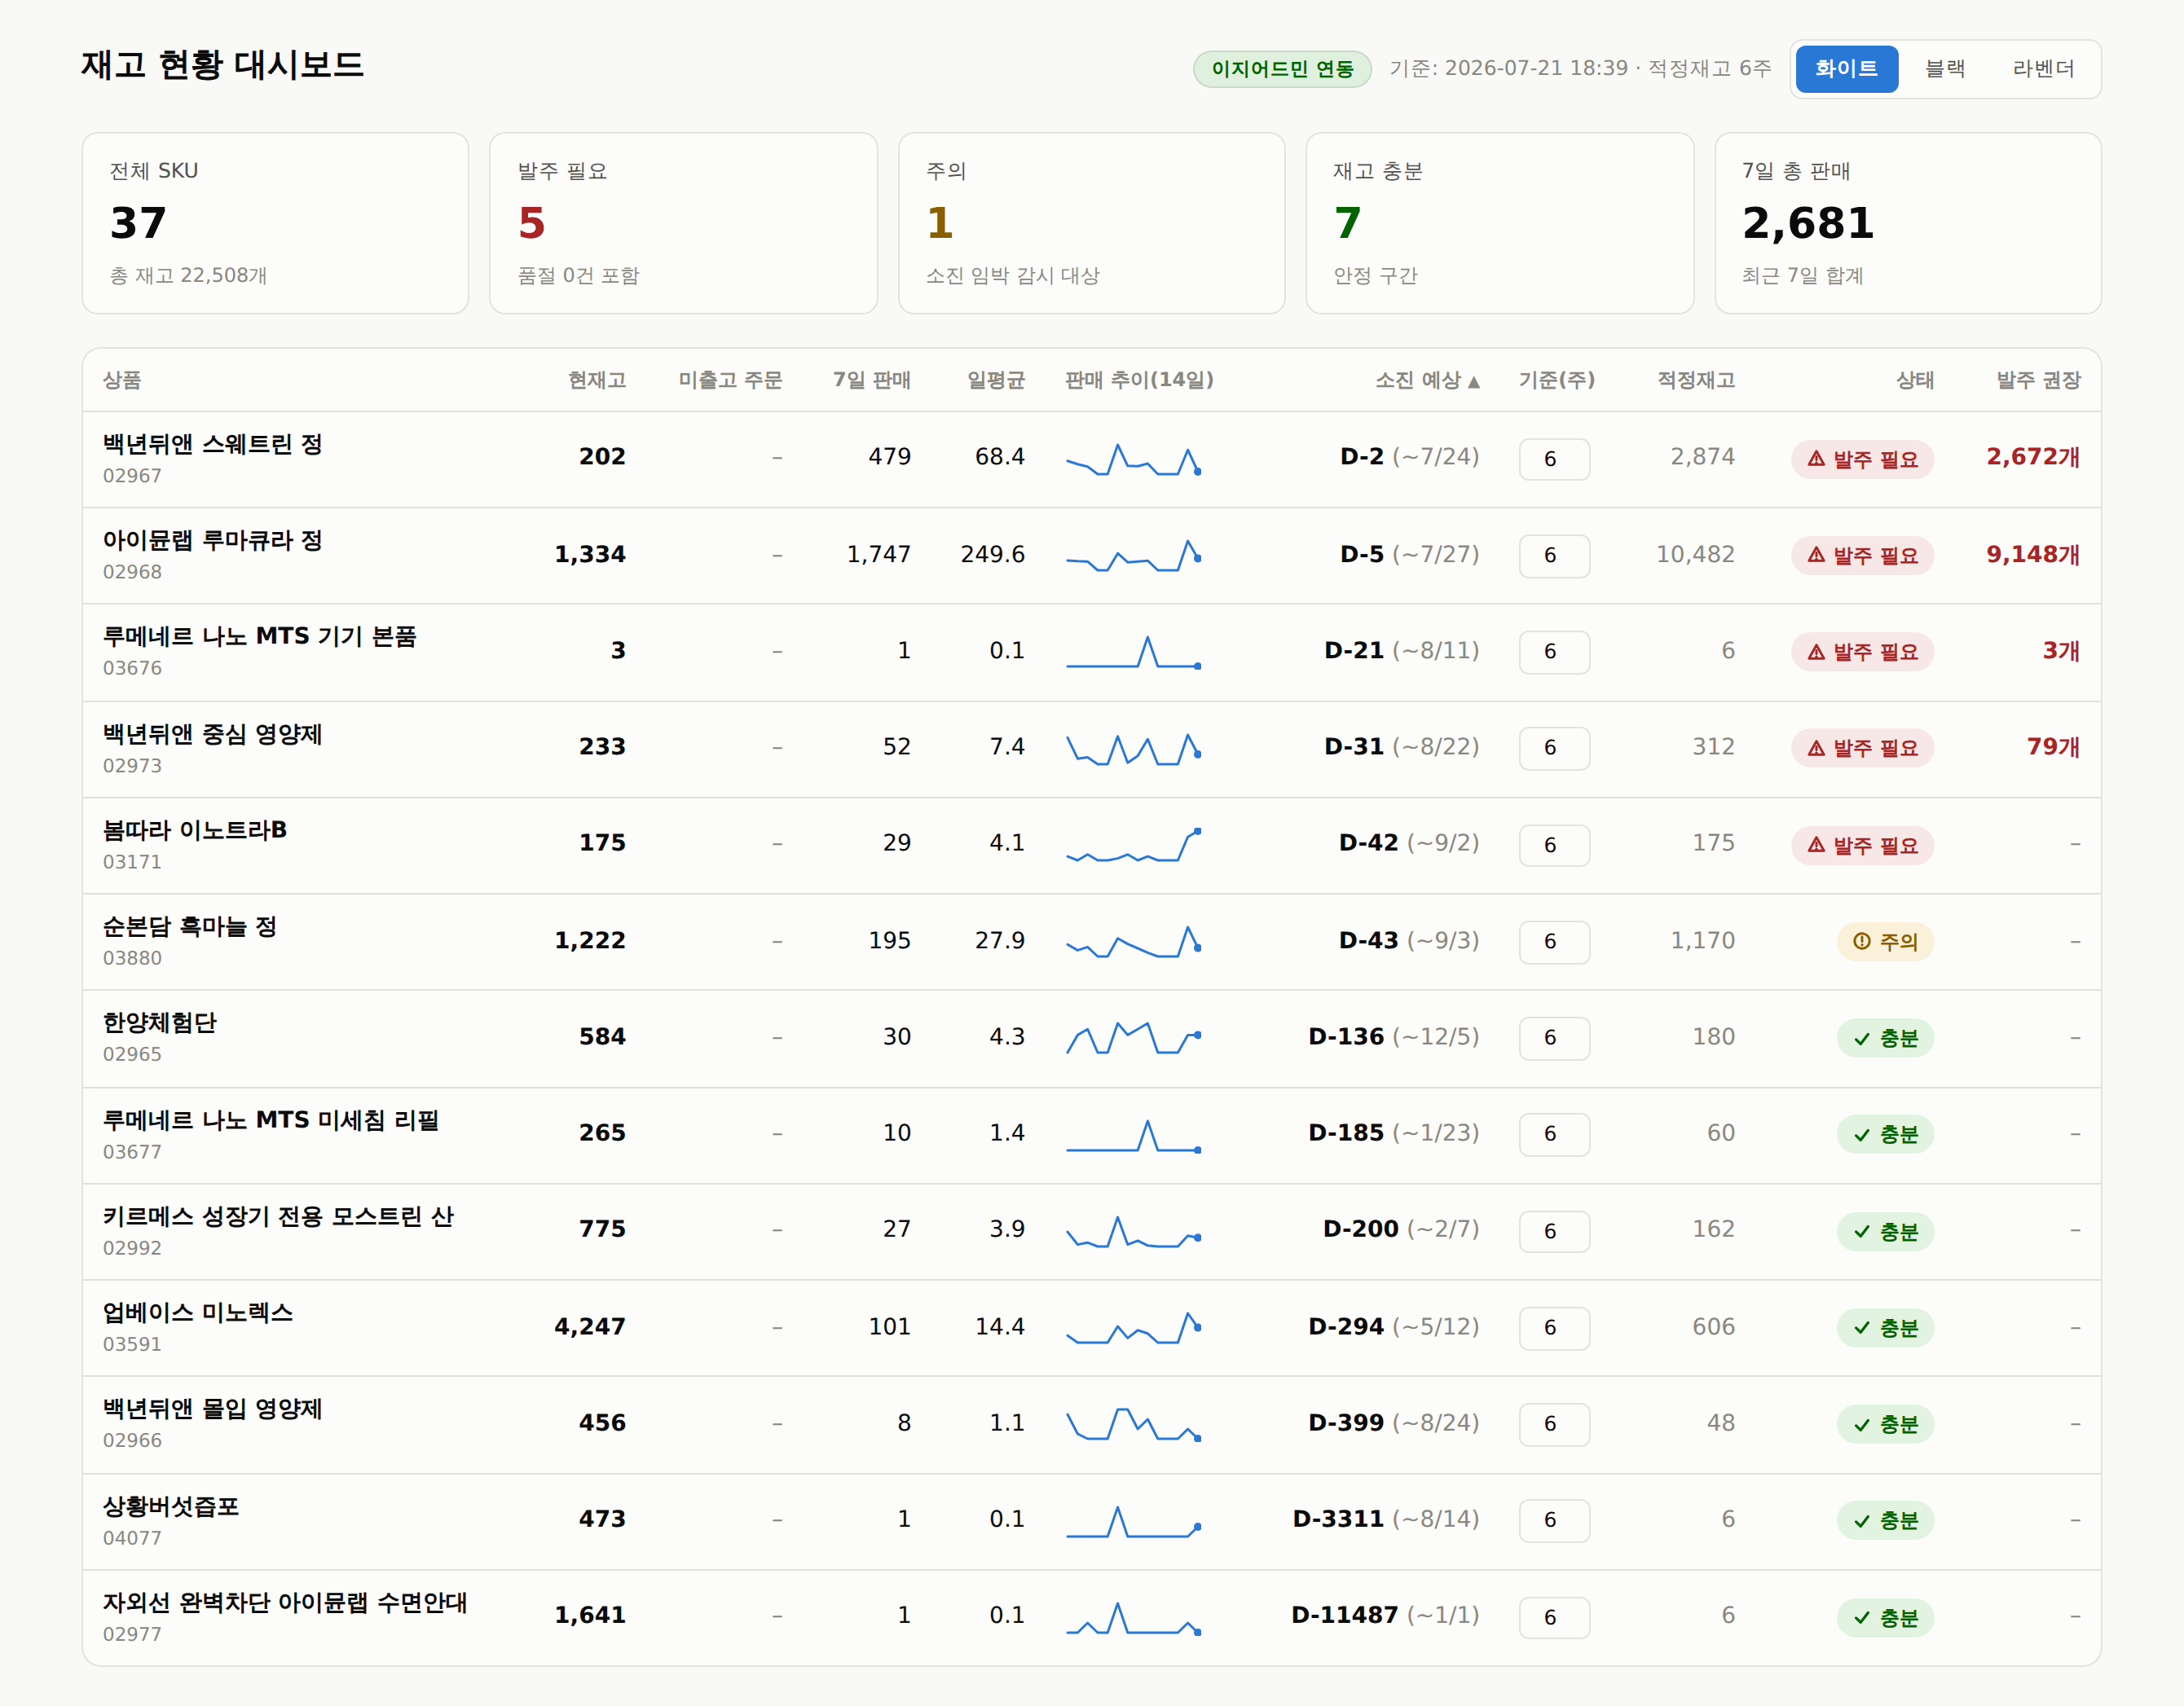
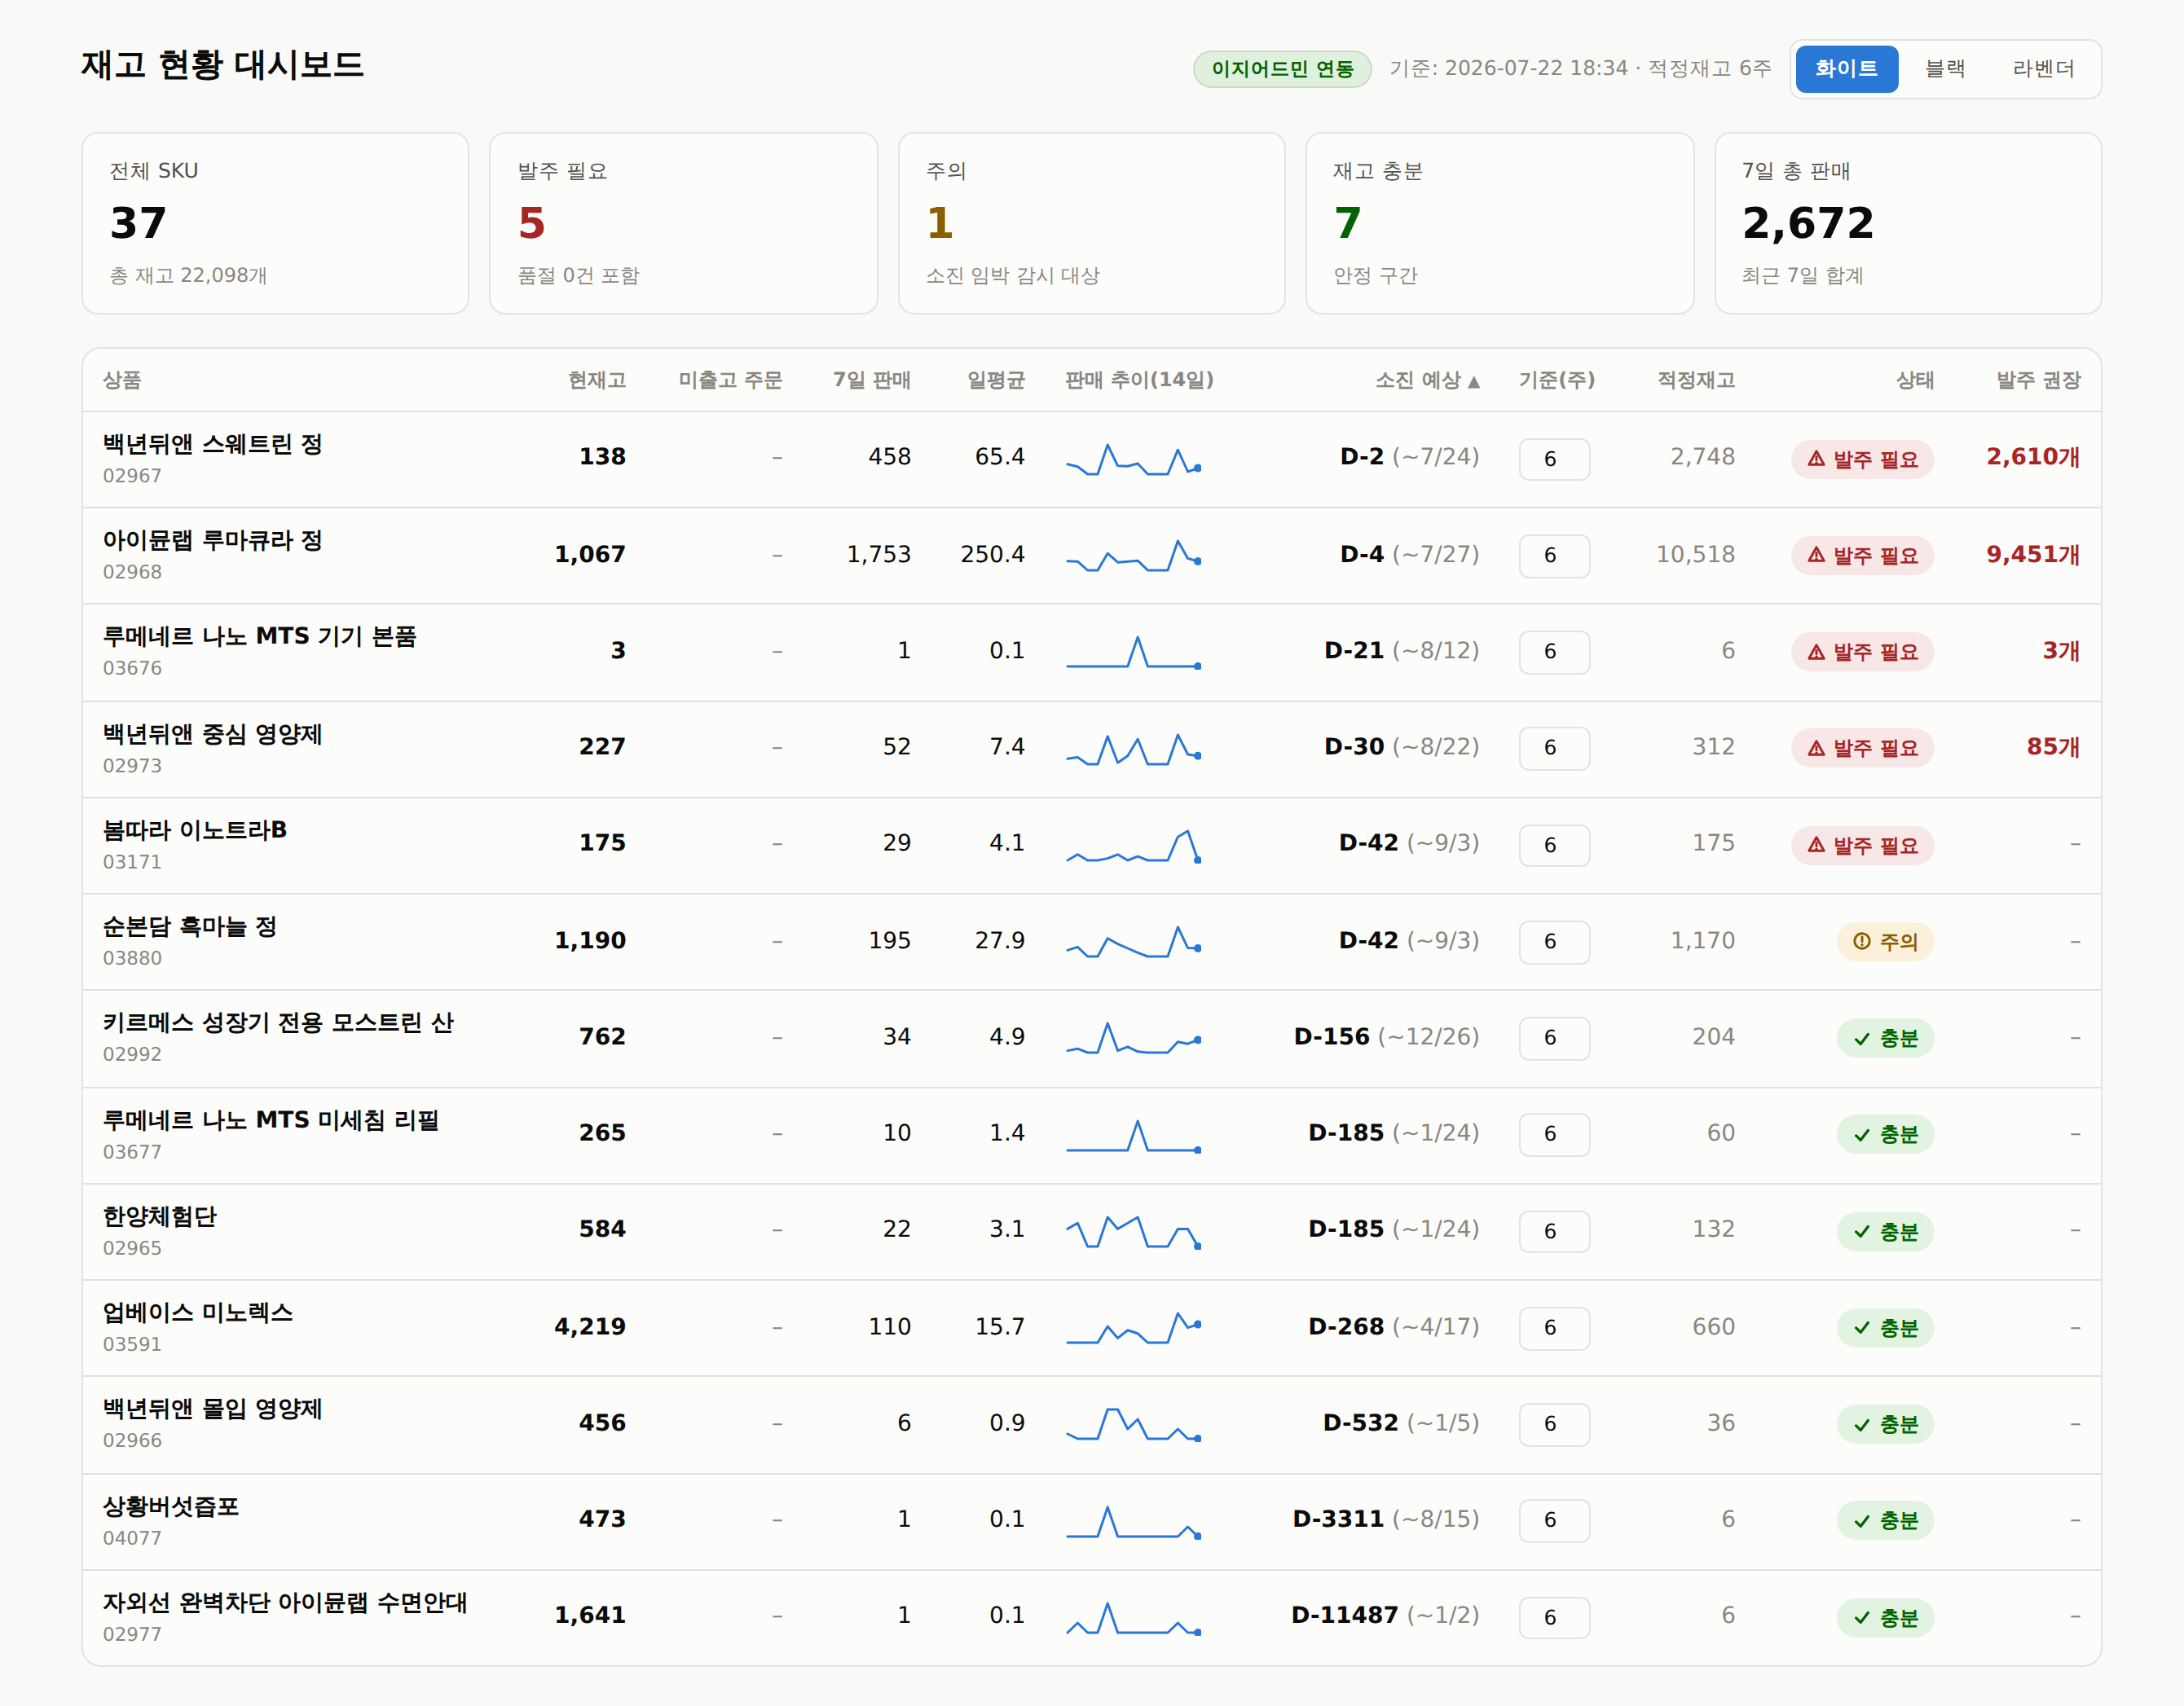
재고 대시보드 자동 갱신

diff --git a/index.html b/index.html
@@ -258,7 +258,7 @@
    stock: 정상재고, backlog: 접수(미출고 주문), daily: 최근 14일 일별 발주수량(06-30→07-13),
    lead: 리드타임 override(없으면 기본값 사용)
    ============================================================ */
-const UPDATED_AT = "2026-07-21 18:39";
+const UPDATED_AT = "2026-07-22 18:34";
 const PRODUCTS = [
  {
   "code": "02991",
@@ -343,8 +343,8 @@ const PRODUCTS = [
    0,
    0,
    0,
-   0,
    1,
+   0,
    0,
    0,
    0,
@@ -366,8 +366,8 @@ const PRODUCTS = [
    0,
    0,
    0,
-   0,
    10,
+   0,
    0,
    0,
    0,
@@ -497,7 +497,6 @@ const PRODUCTS = [
   "stock": 456,
   "backlog": 0,
   "daily": [
-   5,
    1,
    0,
    0,
@@ -510,6 +509,7 @@ const PRODUCTS = [
    0,
    0,
    2,
+   0,
    0
   ]
  },
@@ -517,10 +517,9 @@ const PRODUCTS = [
   "code": "02967",
   "name": "백년뒤앤 스웨트린 정",
   "opt": "",
-  "stock": 202,
+  "stock": 138,
   "backlog": 0,
   "daily": [
-   139,
    105,
    79,
    0,
@@ -533,17 +532,17 @@ const PRODUCTS = [
    0,
    0,
    256,
-   26
+   26,
+   64
   ]
  },
  {
   "code": "02973",
   "name": "백년뒤앤 중심 영양제",
   "opt": "",
-  "stock": 233,
+  "stock": 227,
   "backlog": 0,
   "daily": [
-   19,
    4,
    5,
    0,
@@ -556,7 +555,8 @@ const PRODUCTS = [
    0,
    0,
    21,
-   7
+   7,
+   6
   ]
  },
  {
@@ -635,7 +635,6 @@ const PRODUCTS = [
   "stock": 175,
   "backlog": 0,
   "daily": [
-   2,
    0,
    3,
    0,
@@ -648,7 +647,8 @@ const PRODUCTS = [
    0,
    0,
    12,
-   15
+   15,
+   0
   ]
  },
  {
@@ -731,7 +731,6 @@ const PRODUCTS = [
    0,
    0,
    0,
-   0,
    3,
    0,
    0,
@@ -740,17 +739,17 @@ const PRODUCTS = [
    0,
    0,
    0,
-   1
+   1,
+   0
   ]
  },
  {
   "code": "03880",
   "name": "순본담 흑마늘 정",
   "opt": "",
-  "stock": 1222,
+  "stock": 1190,
   "backlog": 0,
   "daily": [
-   47,
    24,
    37,
    0,
@@ -763,17 +762,17 @@ const PRODUCTS = [
    0,
    0,
    115,
-   33
+   33,
+   32
   ]
  },
  {
   "code": "02968",
   "name": "아이뮨랩 루마큐라 정",
   "opt": "",
-  "stock": 1334,
+  "stock": 1067,
   "backlog": 0,
   "daily": [
-   285,
    269,
    256,
    0,
@@ -786,7 +785,8 @@ const PRODUCTS = [
    0,
    0,
    860,
-   347
+   347,
+   264
   ]
  },
  {
@@ -839,10 +839,9 @@ const PRODUCTS = [
   "code": "03591",
   "name": "업베이스 미노렉스",
   "opt": "",
-  "stock": 4247,
+  "stock": 4219,
   "backlog": 0,
   "daily": [
-   11,
    0,
    0,
    0,
@@ -855,7 +854,8 @@ const PRODUCTS = [
    0,
    0,
    45,
-   23
+   23,
+   28
   ]
  },
  {
@@ -958,7 +958,6 @@ const PRODUCTS = [
   "backlog": 0,
   "daily": [
    0,
-   0,
    1,
    0,
    0,
@@ -970,6 +969,7 @@ const PRODUCTS = [
    0,
    0,
    1,
+   0,
    0
   ]
  },
@@ -1023,10 +1023,9 @@ const PRODUCTS = [
   "code": "02992",
   "name": "키르메스 성장기 전용 모스트린 산",
   "opt": "",
-  "stock": 775,
+  "stock": 762,
   "backlog": 0,
   "daily": [
-   15,
    2,
    4,
    0,
@@ -1039,7 +1038,8 @@ const PRODUCTS = [
    0,
    0,
    11,
-   9
+   9,
+   13
   ]
  },
  {
@@ -1095,7 +1095,6 @@ const PRODUCTS = [
   "stock": 584,
   "backlog": 0,
   "daily": [
-   0,
    6,
    8,
    0,
@@ -1108,7 +1107,8 @@ const PRODUCTS = [
    0,
    0,
    6,
-   6
+   6,
+   0
   ]
  }
 ];